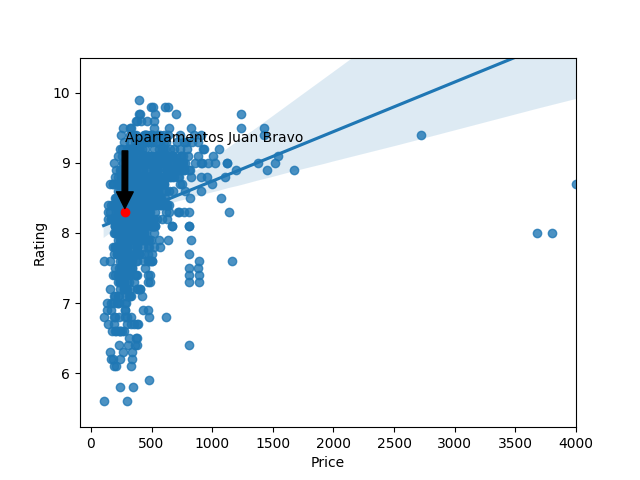
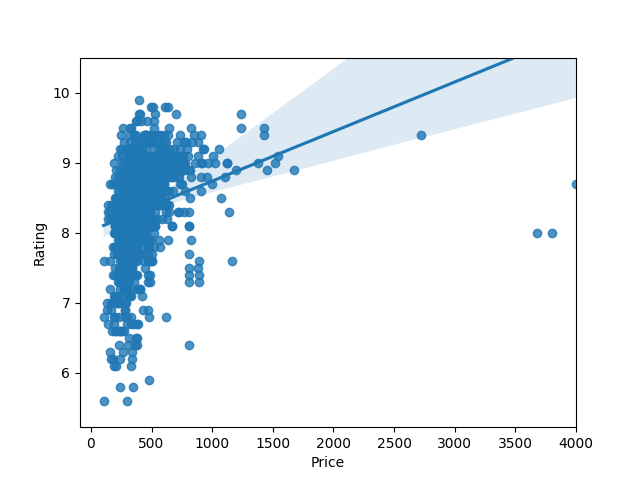
End of day changes

diff --git a/templates/result.html b/templates/result.html
@@ -19,24 +19,68 @@
   display: table;
   clear: both;
 }
+.alert {
+  padding: 20px;
+  background-color: #f44336;
+  color: white;
+}
+
+.closebtn {
+  margin-left: 15px;
+  color: white;
+  font-weight: bold;
+  float: right;
+  font-size: 22px;
+  line-height: 20px;
+  cursor: pointer;
+  transition: 0.3s;
+}
+
+.closebtn:hover {
+  color: black;
+}
+body {
+    background-color: lightblue;
+}
 </style>
 </head>
-<body>
-
+<body onload="notfound()">
 <h2>Results</h2>
-<h4>All places with no ratings are ignored, places that are sold out can't be plotted because they don't have a price</h4>
+<h4>Note: All places with no ratings are ignored, places that are sold out can't be plotted because they don't have a price</h4>
 <div class="row">
 <div class="column" style="background-color:#fc641d; font-weight:bold;">
 <h2>Booking</h2>
-    <p>For dates {{ indate }} to {{ outdate }}</p>
+
+<h3 id="notfoundbooking" style="background-color: white; font-weight:bold;"> </h3>
+<p>For dates {{ indate }} to {{ outdate }}, looking for property name "{{ propertyname[0] }}"</p>
 <img src= {{ path1 }} alt="Booking">
+<h3>Number of sold out properties: {{ bookingsoldout }} with an average rating: {{ bookingrating }}</h3>
 </div>
 <div class="column" style="background-color:#fc641d; font-weight:bold;">
 <h2>Tripadvisor</h2>
-   <p>For dates {{ indate }} to {{ outdate }}</p>
+
+<h3 id="notfoundtripadvisor" style="background-color: white; font-weight:bold;"> </h3>
+<p>For dates {{ indate }} to {{ outdate }} looking for property name "{{ propertyname[1] }}"</p>
 <img src= {{ path2 }} alt="Tripadvisor">
+<h3>Number of sold out properties: {{ tripadvisorsoldout }} with an average rating: {{ tripadvisorrating }}</h3>
+  </div>
 </div>
-</div>
+<script>
+var notfoundbooking = '{{ notfoundbooking }}';
+var notfoundtripadvisor = '{{ notfoundtripadvisor }}';
+function notfound() {
+    if (notfoundbooking=='True' && notfoundtripadvisor=='True'){
+        alert("We didn't find your property on either website, please very that the credentials you inputed are correct and that your property is not sold out for those dates, and run the webscraper again");
+    }
+    else if (notfoundbooking=='True'){
+        document.getElementById("notfoundbooking").innerHTML = "Property not found on Booking.com, make sure you didn't make a typo, that your property is available for those dates and that your property is available on that site";
+    }
+    else if (notfoundtripadvisor=='True'){
+        document.getElementById("notfoundtripadvisor").innerHTML = "Property not found on Tripadvisor, make sure you didn't make a typo, that your property is available for those dates and that your property is available on that site";
+    }
+}
+</script>
+
 </body>
 </html>
 

diff --git a/processhotellist.py b/processhotellist.py
@@ -17,8 +17,6 @@ def printlist(df):
 
 
 
-
-
 #compares an input string to the list of hotel names to find the closest match
 def fuzzy_merge(df1, closestmatch):
     pd.options.mode.chained_assignment = None
@@ -68,13 +66,14 @@ def plotvalsites(df, comb, figcount, closestmatch):
         for i, row in search.iterrows():
             ax.annotate(i, row, xytext=(price + 1, rating + 1), arrowprops=dict(facecolor='black', shrink=0.05))
     except Exception as e:
+        rank = True
         print(e)
         pass
     axes = plt.gca()
     axes.set_ylim([None, 10.5])
     pathname = 'static/images/' + comb + '.png'
     fig.savefig(pathname)
-    return fig
+    return rank
 
 
 #Creates a plot with cities, hotels, price and rating
@@ -119,20 +118,26 @@ def comparesites(*args):
     booking = dfull.loc['booking']
     fuzzy_merge(booking, tripadvisor)
 
+
+def getsoldout(df):
+
+    soldout = {'Price': 'Sold out'}
+    df2 = df.fillna(value=soldout)
+    df2 = df2.dropna()
+    dfsoldout = df2.loc[df2['Price'] == 'Sold out']
+    averagerating = round(dfsoldout['Rating'].mean(),1)
+    return averagerating, len(dfsoldout)
+
 #creates png file from a csv, takes in a site name a site name and city name and a figure count used to create seperate plots
 def initialize(csvfile, comb, figcount, closestmatch):
     # Read the .csv file to create a dataframe
     df = pd.read_csv(csvfile)
-    soldout = {'Price': 'Sold out'}
-    df2 = df.fillna(value=soldout)
-    df = df.dropna()
-    df2 = df2.dropna()
-    dfsoldout = df2.loc[df2['Price'] == 'Sold out']
-    print(dfsoldout)
     df.index.name = "Rank"
+    averagerating, soldout= getsoldout(df)
+    df = df.dropna()
     df.drop_duplicates(['Hotel name'], 'first', inplace=True)
-    fig = plotvalsites(df, comb, figcount, closestmatch)
-    return fig
+    rank = plotvalsites(df, comb, figcount, closestmatch)
+    return rank, averagerating, soldout
 
 
 if __name__ == '__main__':

diff --git a/app.py b/app.py
@@ -32,9 +32,10 @@ def my_form_post():
     tripadvisorpathname = "static/images/" + location + "tripadvisor" + ".png"
     path1 = bookingpathname.replace("static", "")
     path2 = tripadvisorpathname.replace("static", "")
-    initialize('csvfiles/madridbooking.csv', "madridbooking", 1, "juan bravo")
-    initialize('csvfiles/madridtripadvisor.csv', "madridtripadvisor", 2, "juan bravo")
-    return render_template('result.html', location=location, indate=datesin, outdate=datesout, path1=path1, path2=path2)
+    notfoundbooking, bookingrating, bookingsoldout= initialize('csvfiles/madridbooking.csv', "madridbooking", 1, "hewi gj")
+    notfoundtripadvisor, tripadvisorrating, tripadvisorsoldout= initialize('csvfiles/madridtripadvisor.csv', "madridtripadvisor", 2, "juan bravo")
+    propertyname = [bookingname, tripadvisorname]
+    return render_template('result.html', location=location, indate=datesin, outdate=datesout, path1=path1, path2=path2, tripadvisorsoldout=tripadvisorsoldout, tripadvisorrating=tripadvisorrating, bookingsoldout=bookingsoldout, bookingrating=bookingrating, notfoundbooking = notfoundbooking, notfoundtripadvisor = notfoundtripadvisor, propertyname = propertyname)
 
 @app.route('/<path:path>')
 def send_js(path):
